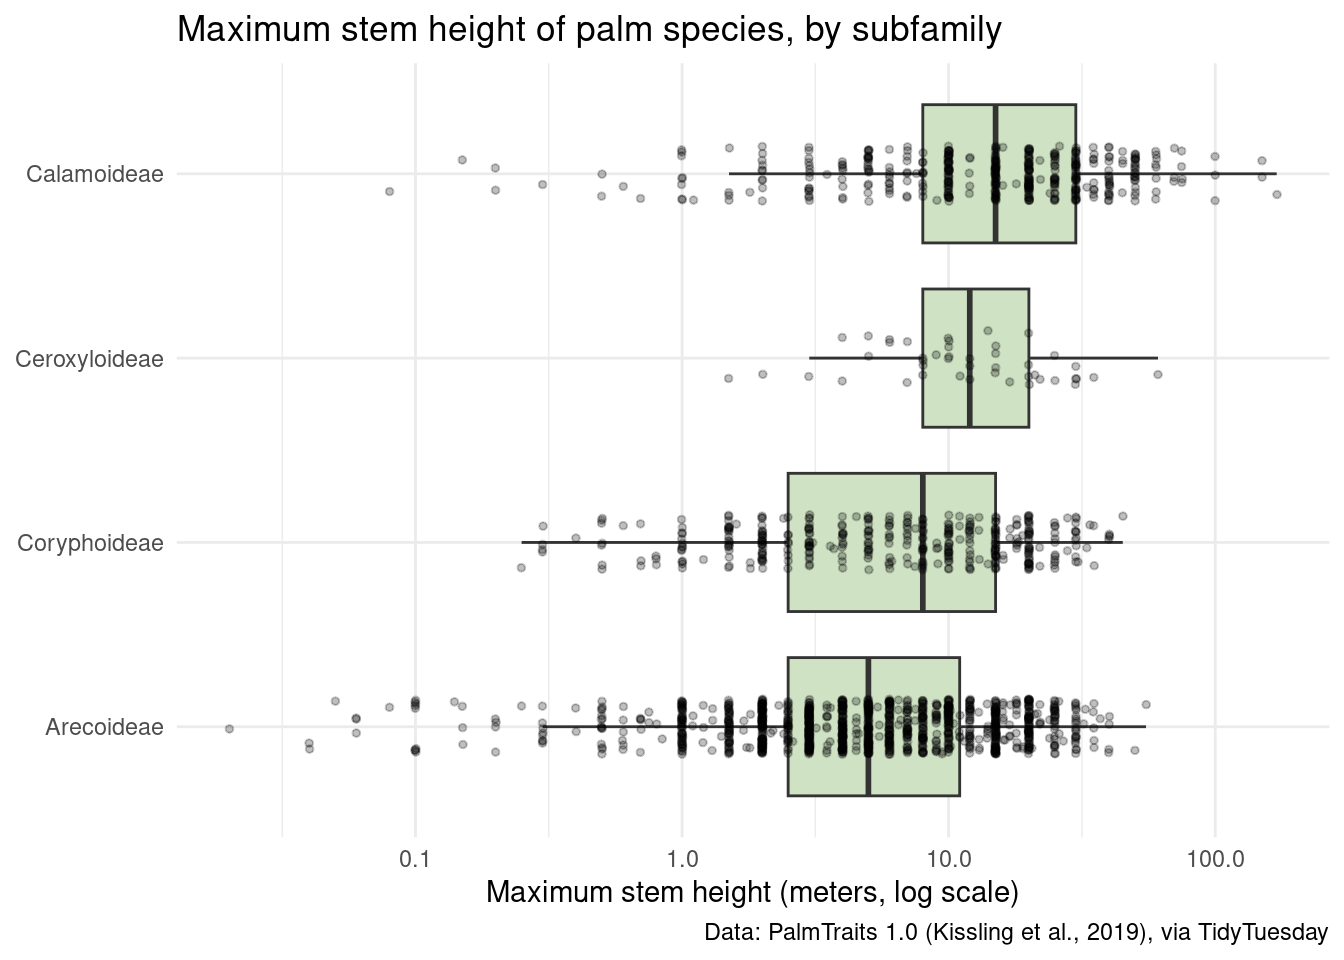
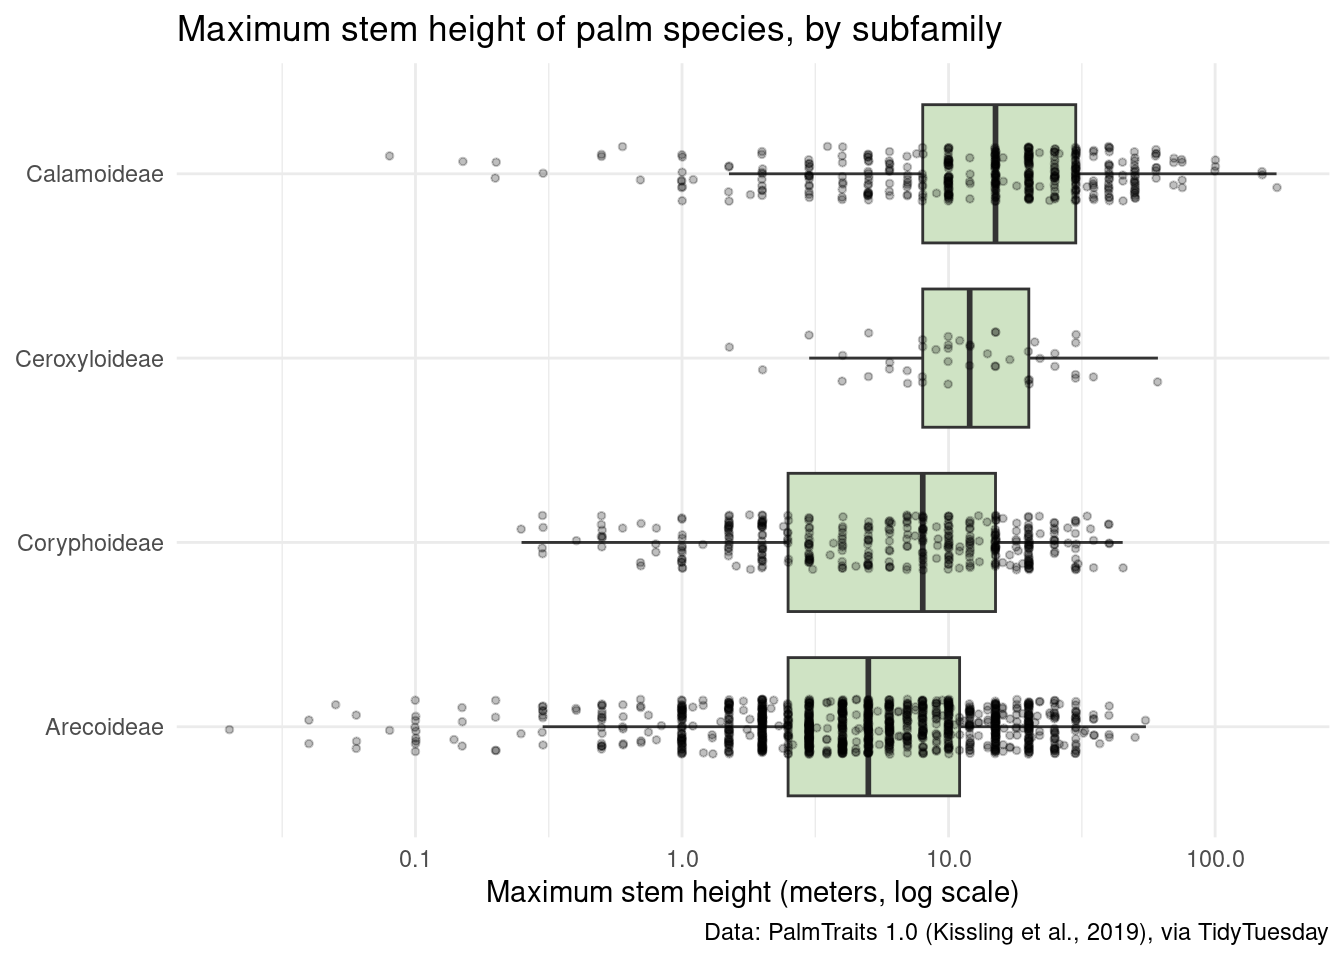
Update The Office page

diff --git a/docs/theoffice.html b/docs/theoffice.html
@@ -403,7 +403,7 @@ pre > code.sourceCode > span > a:first-child::before { text-decoration: underlin
 <section id="introduction" class="level2">
 <h2 class="anchored" data-anchor-id="introduction">Introduction</h2>
 <p>The Office (US) ran for nine seasons, from 2005 to 2013, and followed the employees of the Dunder Mifflin paper company in Scranton, Pennsylvania. Because every line of the show has been transcribed, the whole series can be treated as text data: who says what, how often, and how the show changed over time.</p>
-<p>In this project I use string functions and regular expressions to answer three questions:</p>
+<p>In this project I use string functions and regular expressions to answer three questions about my favorite show:</p>
 <ol type="1">
 <li>Who carries the show, and what happened when Michael Scott left?</li>
 <li>Were episodes rated higher when Michael was in them?</li>
@@ -415,7 +415,7 @@ pre > code.sourceCode > span > a:first-child::before { text-decoration: underlin
 <div class="cell">
 <details class="code-fold">
 <summary>Code</summary>
-<div class="code-copy-outer-scaffold"><div class="sourceCode cell-code" id="cb1"><pre class="sourceCode r code-with-copy"><code class="sourceCode r"><span id="cb1-1"><a href="#cb1-1" aria-hidden="true" tabindex="-1"></a><span class="co"># install.packages("schrute")   # run once in the Console, not in this file</span></span>
+<div class="code-copy-outer-scaffold"><div class="sourceCode cell-code" id="cb1"><pre class="sourceCode r code-with-copy"><code class="sourceCode r"><span id="cb1-1"><a href="#cb1-1" aria-hidden="true" tabindex="-1"></a><span class="co"># install.packages("schrute") </span></span>
 <span id="cb1-2"><a href="#cb1-2" aria-hidden="true" tabindex="-1"></a></span>
 <span id="cb1-3"><a href="#cb1-3" aria-hidden="true" tabindex="-1"></a><span class="fu">library</span>(tidyverse)</span>
 <span id="cb1-4"><a href="#cb1-4" aria-hidden="true" tabindex="-1"></a><span class="fu">library</span>(schrute)</span>
@@ -506,7 +506,7 @@ pre > code.sourceCode > span > a:first-child::before { text-decoration: underlin
 <span id="cb4-25"><a href="#cb4-25" aria-hidden="true" tabindex="-1"></a>  <span class="fu">theme</span>(<span class="at">legend.position =</span> <span class="st">"bottom"</span>)</span></code></pre></div><button title="Copy to Clipboard" class="code-copy-button"><i class="bi"></i></button></div>
 </details>
 <div class="cell-output-display">
-<div id="fig-season-share" class="quarto-float quarto-figure quarto-figure-center anchored" width="768" alt="Line chart of each season's share of lines spoken by Michael, Dwight, Jim, Pam, Andy, and everyone else, seasons 1 to 9.">
+<div id="fig-season-share" class="quarto-float quarto-figure quarto-figure-center anchored" alt="Line chart of each season's share of lines spoken by Michael, Dwight, Jim, Pam, Andy, and everyone else, seasons 1 to 9." width="768">
 <figure class="quarto-float quarto-float-fig figure">
 <div aria-describedby="fig-season-share-caption-0ceaefa1-69ba-4598-a22c-09a6ac19f8ca">
 <img src="theoffice_files/figure-html/fig-season-share-1.png" id="fig-season-share" class="img-fluid figure-img" alt="Line chart of each season's share of lines spoken by Michael, Dwight, Jim, Pam, Andy, and everyone else, seasons 1 to 9." width="768">
@@ -586,7 +586,7 @@ Figure&nbsp;1
 <span id="cb6-24"><a href="#cb6-24" aria-hidden="true" tabindex="-1"></a>  <span class="fu">theme</span>(<span class="at">legend.position =</span> <span class="st">"bottom"</span>)</span></code></pre></div><button title="Copy to Clipboard" class="code-copy-button"><i class="bi"></i></button></div>
 </details>
 <div class="cell-output-display">
-<div id="fig-ratings" class="quarto-float quarto-figure quarto-figure-center anchored" width="768" alt="Scatterplot of IMDb rating for every episode in air order, colored by whether Michael has lines in the episode.">
+<div id="fig-ratings" class="quarto-float quarto-figure quarto-figure-center anchored" alt="Scatterplot of IMDb rating for every episode in air order, colored by whether Michael has lines in the episode." width="768">
 <figure class="quarto-float quarto-float-fig figure">
 <div aria-describedby="fig-ratings-caption-0ceaefa1-69ba-4598-a22c-09a6ac19f8ca">
 <img src="theoffice_files/figure-html/fig-ratings-1.png" id="fig-ratings" class="img-fluid figure-img" alt="Scatterplot of IMDb rating for every episode in air order, colored by whether Michael has lines in the episode." width="768">
@@ -599,7 +599,7 @@ Figure&nbsp;2
 </div>
 </div>
 <p>Each dot is one episode, placed in the order it aired, with its height showing its IMDb rating. Orange dots are episodes where Michael has at least one line and gray dots are episodes where he has none. The gray dots cluster at the end of the series and sit visibly lower: episodes with Michael average 8.41 while the 49 episodes without him average 7.81. Most of the lowest-rated episodes of the show come from Season 8, the first season without him. The two highest-rated episodes (both 9.7) are labeled: “Goodbye, Michael,” his farewell, and the series finale, where he makes a brief return.</p>
-<p>There’s a twist, though. Among the episodes Michael is in, how much he talks has essentially no relationship with the rating (correlation 0). Episodes where Michael dominates the dialogue are not rated higher, on average, than episodes where he has a smaller part. So the plot doesn’t show that “more Michael is better.” It shows that the show was rated lower after he left, which could also reflect the show getting older and losing other writers and cast members at the same time.</p>
+<p>However, among the episodes Michael is in, how much he talks has essentially no relationship with the rating (correlation 0). Episodes where Michael dominates the dialogue are not rated higher, on average, than episodes where he has a smaller part. So the plot doesn’t show that “more Michael is better,” but it instead highlights that the show was rated lower after he left, which could also reflect the show getting older and losing other writers and cast members at the same time.</p>
 </section>
 <section id="what-the-stage-directions-reveal" class="level2">
 <h2 class="anchored" data-anchor-id="what-the-stage-directions-reveal">3. What the stage directions reveal</h2>
@@ -803,13 +803,13 @@ Table&nbsp;1: Stage directions per 1,000 lines for the eight characters with the
 </figure>
 </div>
 </div>
-<p>Only 17% of lines carry any stage direction, so these rates are small, but a few characters stand out clearly. Andy has a singing direction 13.6 times per 1,000 lines, compared with 3.7 for the cast as a whole. That matches his character, a former member of Cornell’s a cappella group who breaks into song constantly. Erin has the most laughing directions, Angela has by far the most crying directions, and Michael leads the table in sighing. Read across a row, each character’s numbers sketch a small personality profile drawn entirely from the transcript.</p>
+<p>Only 17% of lines carry any stage direction, so these rates are small, but a few characters stand out clearly. Andy has a singing direction 13.6 times per 1,000 lines, compared with 3.7 for the cast as a whole. That matches his character, a former member of Cornell’s a cappella group who breaks into song constantly. Erin has the most laughing directions, Angela has by far the most crying directions, and Michael leads the table in sighing. This makes sense with the character’s personalities in ways fans can note easily, such as Dwight having the highest whispering rate as the paranoid one of the bunch.</p>
 </section>
 </section>
 <section id="what-the-text-tells-us" class="level2">
 <h2 class="anchored" data-anchor-id="what-the-text-tells-us">What the text tells us</h2>
 <p>The first two sections tell one story from two angles. Michael speaks about a third of the lines for most of the show, and when he leaves the dialogue spreads out across the ensemble rather than shifting to a new lead. Over the same stretch the episodes’ IMDb ratings fall, even though, while he was on the show, episodes with more Michael were not rated higher than episodes with less. The stage directions add character detail that plain dialogue can’t: Andy sings, Erin laughs, Angela cries, and Michael, the boss responsible for 70% of the show’s “that’s what she said” jokes, sighs.</p>
-<p>There are limits to what this text can show. The transcripts and their stage directions were typed by fans, so different episodes may have been transcribed with different levels of detail, and a regular expression can’t tell a sarcastic “[laughs]” from a real one. Likewise, the ratings comparison can’t separate Michael’s absence from everything else that changed in the last two seasons.</p>
+<p>However, as someone with vast experience in NLP, I can confirm that there are limits to what this text can show. The transcripts and their stage directions were typed by fans, so different episodes may have been transcribed with different levels of detail, and a regular expression can’t tell a sarcastic “[laughs]” from a real one. Likewise, the ratings comparison can’t separate Michael’s absence from everything else that changed in the last two seasons.</p>
 </section>
 <section id="data-source" class="level2">
 <h2 class="anchored" data-anchor-id="data-source">Data source</h2>
